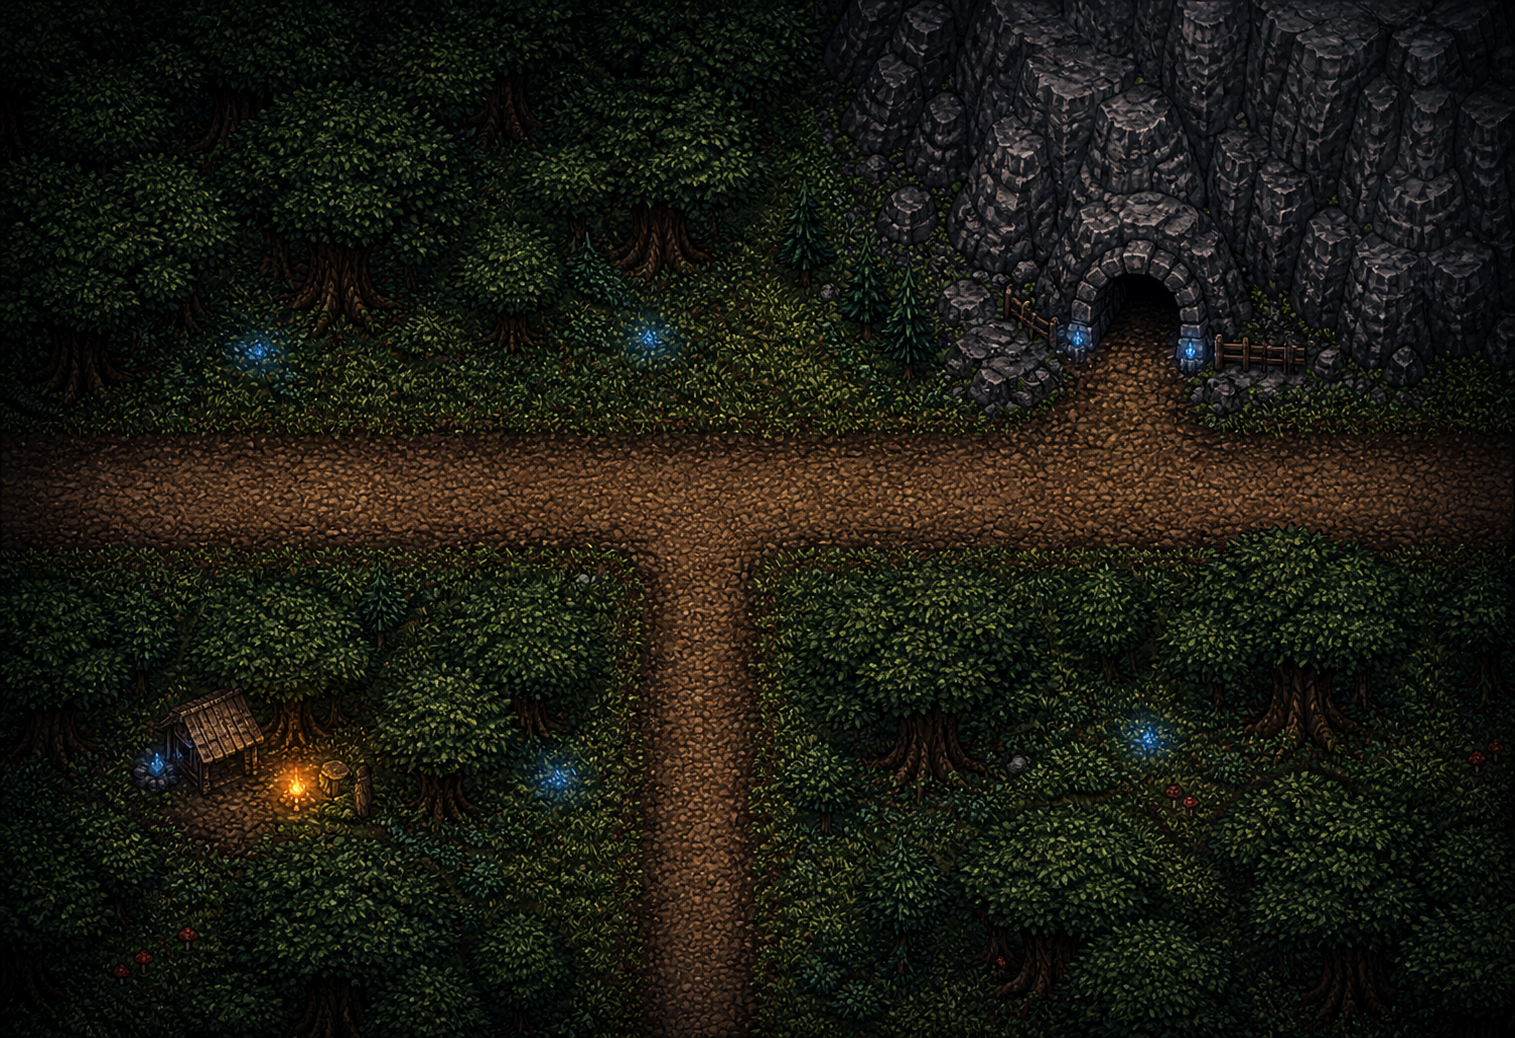
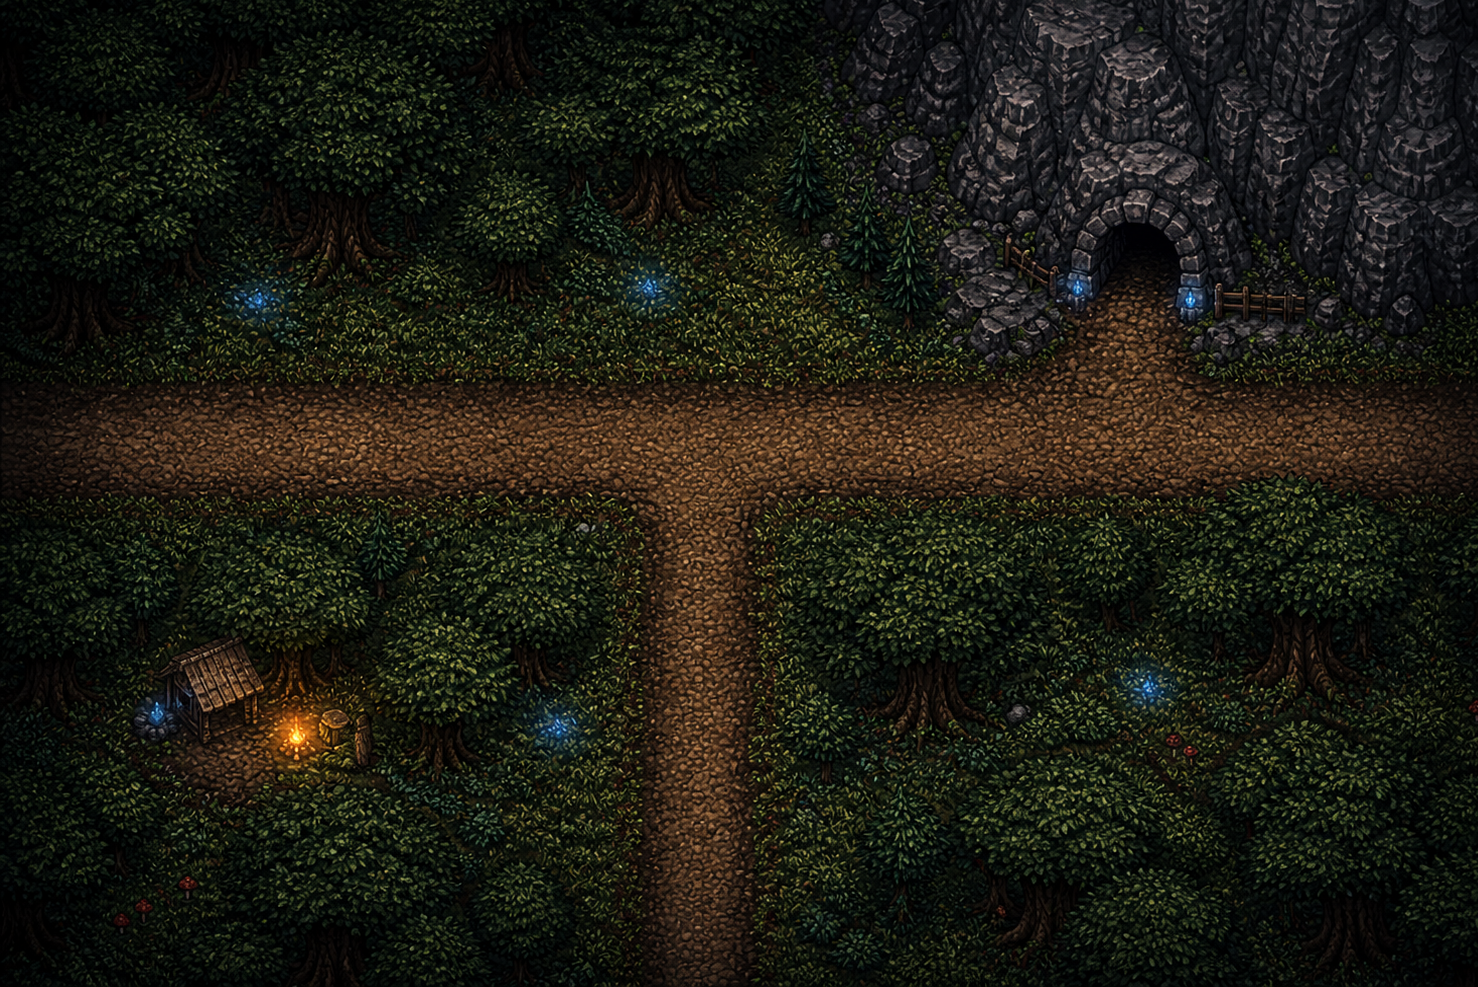
Maps überarbeitet, Wolf überarbeitet, Thoughtbubble überarbeitet

diff --git a/project/script.js b/project/script.js
@@ -38,7 +38,8 @@ let KEY_EVENTS = {
 
 let GAME_CONFIG = {
     gameSpeed: 28,
-    characterSpeed: 5
+    characterSpeed: 15
+    // normal: 5
 };
 
 let gameStarted = false;
@@ -48,9 +49,9 @@ let mapRow = 1;
 let mapCol = 1;
 
 const MAPS = [
-    ["./img/LagerUndElixier.png", "./img/CaveUndWeg.png", "./img/UmgefallenerBaum.png"],
-    ["./img/CaveUndWeg.png", "./img/StartMap.png", "./img/LagerUndElixier.png"],
-    ["./img/UmgefallenerBaum.png", "./img/LagerUndElixier.png", "./img/CaveUndWeg.png"]
+    ["./img/LagerUndElixier.png", "./img/CaveUndWeg.png", "./img/CaveUndWeg.png"],
+    ["./img/UmgefallenerBaum.png", "./img/StartMap.png", "./img/LagerUndElixier.png"],
+    ["./img/CaveUndWeg.png", "./img/LagerUndElixier.png", "./img/CaveUndWeg.png"]
 ];
 
 function updateMapBackground() {
@@ -185,34 +186,50 @@ function setSpriteDirection(direction) {
 function changeMap(direction) {
     if (direction === "left" && mapCol > 0) {
         mapCol--;
-        loadThoughtById(2);
+        loadThoughtById(3);
+        thoughtBubble.style.animation = "none";
         thoughtBubble.offsetWidth;
         thoughtBubble.style.display = "flex";
-        thoughtBubble.style.animation = "fadeInThought 0.75s ease 1s forwards";
+        thoughtBubble.style.animation = "fadeInThought 0.75s ease 0.3s forwards";
     }
 
     if (direction === "right" && mapCol < MAPS[0].length - 1) {
         mapCol++;
-        loadThoughtById(3);
+        if (mapRow === 1 && mapCol === 1) {
+            loadThoughtById(1);
+        } else {
+            loadThoughtById(5);
+        }
+        thoughtBubble.style.animation = "none";
         thoughtBubble.offsetWidth;
         thoughtBubble.style.display = "flex";
-        thoughtBubble.style.animation = "fadeInThought 0.75s ease 1s forwards";
+        thoughtBubble.style.animation = "fadeInThought 0.75s ease 0.3s forwards";
     }
 
     if (direction === "up" && mapRow > 0) {
         mapRow--;
-        loadThoughtById(4);
+        if (mapRow === 1 && mapCol === 1) {
+            loadThoughtById(1);
+        } else {
+            loadThoughtById(4);
+        }
+        thoughtBubble.style.animation = "none";
         thoughtBubble.offsetWidth;
         thoughtBubble.style.display = "flex";
-        thoughtBubble.style.animation = "fadeInThought 0.75s ease 1s forwards";
+        thoughtBubble.style.animation = "fadeInThought 0.75s ease 0.3s forwards";
     }
 
     if (direction === "down" && mapRow < MAPS.length - 1) {
         mapRow++;
-        loadThoughtById(2);
+        if (mapRow === 1 && mapCol === 1) {
+            loadThoughtById(1);
+        } else {
+            loadThoughtById(2);
+        }
+        thoughtBubble.style.animation = "none";
         thoughtBubble.offsetWidth;
         thoughtBubble.style.display = "flex";
-        thoughtBubble.style.animation = "fadeInThought 0.75s ease 1s forwards";
+        thoughtBubble.style.animation = "fadeInThought 0.75s ease 0.3s forwards";
     }
 
     updateMapBackground();
@@ -344,4 +361,20 @@ function Start() {
     characterSelection.style.top = "50%";
 
     loadThoughtById(1);
+}
+
+// WOLF
+let wolf = document.getElementById("wolf");
+
+function updateWolfVisibility() {
+    if (mapRow === 1 && mapCol === 0) {
+        wolf.style.display = "block";
+    } else {
+        wolf.style.display = "none";
+    }
+}
+
+function updateMapBackground() {
+    document.body.style.backgroundImage = `url('${MAPS[mapRow][mapCol]}')`;
+    updateWolfVisibility();
 }

diff --git a/project/style.css b/project/style.css
@@ -1,10 +1,15 @@
 body {
-    font-family: 'Arial', sans-serif;
+    font-family: WoodsFont, 'Arial', sans-serif;
     margin: 0;
     padding: 0;
     background-image: url('./img/StartMap.png');
     background-attachment: fixed;
     background-size: cover;
+}
+
+@font-face {
+    font-family: WoodsFont;
+    src: url(./font/JosefinSlab-Bold.ttf);
 }
 
 #fogDown {
@@ -246,16 +251,16 @@ body {
 
 #thoughts {
     position: absolute;
-    top: 45%;
+    top: 40%;
     left: 50%;
     transform: translate(-50%, -50%);
-    font-size: 1.2rem;
+    font-size: 1.8rem;
     text-align: center;
 }
 
 /* Thought Bubble - ENDE */
 
-/* Health Bar */
+/* Health Bar - ANFANG */
 #health-bar {
     position: fixed;
     top: 2vh;
@@ -270,3 +275,21 @@ body {
     width: 100%;
     height: 100%;
 }
+
+/* Health Bar - ENDE */
+
+/* Wolf - ANFANG */
+#wolf {
+    position: fixed;
+    left: 58vw;
+    top: 43vh;
+    display: none;
+    z-index: 100;
+}
+
+#wolf-img {
+    width: 8vw;
+    height: auto;
+}
+
+/* Wolf - ENDE */

diff --git a/project/library/thought-bubbles.js b/project/library/thought-bubbles.js
@@ -5,7 +5,7 @@ const thoughtBubbles = [
   },
   {
     "id": 2,
-    "text": "Hey can you help me find my way out of here? I need to get to the farm"
+    "text": "A camp! Maybe I can find clues here on how to get out."
   },
   {
     "id": 3,
@@ -14,5 +14,9 @@ const thoughtBubbles = [
   {
     "id": 4,
     "text": "Which way should I go?"
+  }, 
+  {
+    "id": 5,
+    "text": "Hey owl! Can you help me? I need to get out of here!"
   }
 ];

diff --git a/project/index.html b/project/index.html
@@ -58,6 +58,11 @@
     <div id="health-bar">
         <img src="./img/healthbar-full.png" alt="Health Bar" id="health">
     </div>
+
+    <!-- Wolf -->
+    <div id="wolf">
+        <img src="./img/wolf.png" alt="wolf" id="wolf-img">
+    </div>
 </body>
 
 </html>